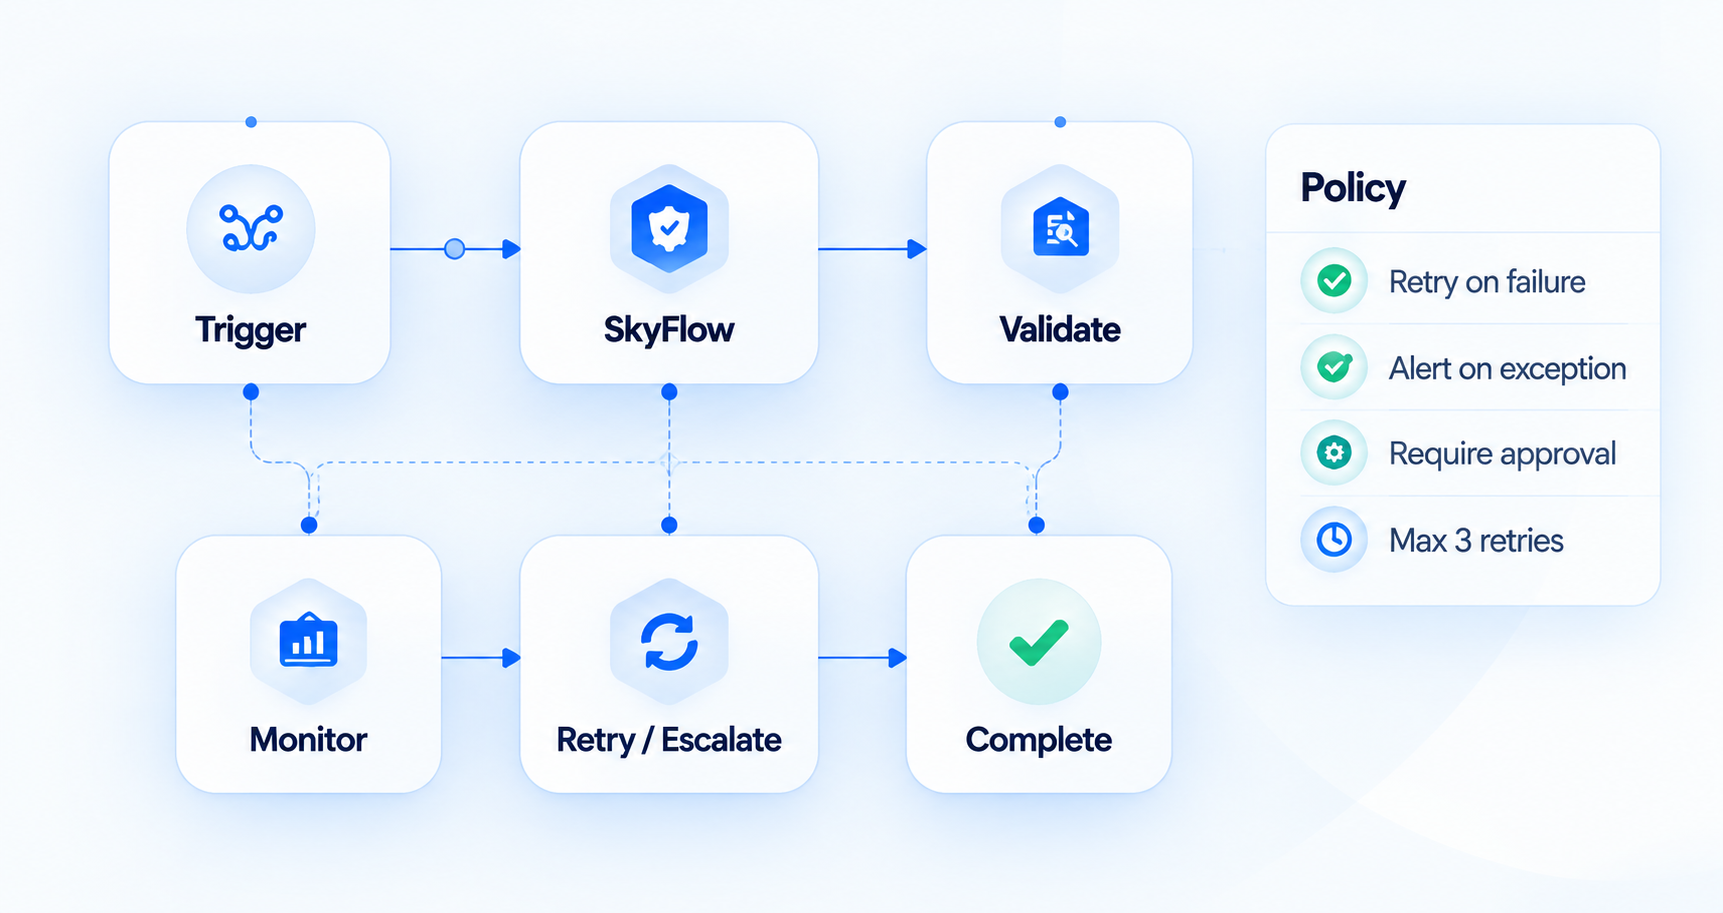
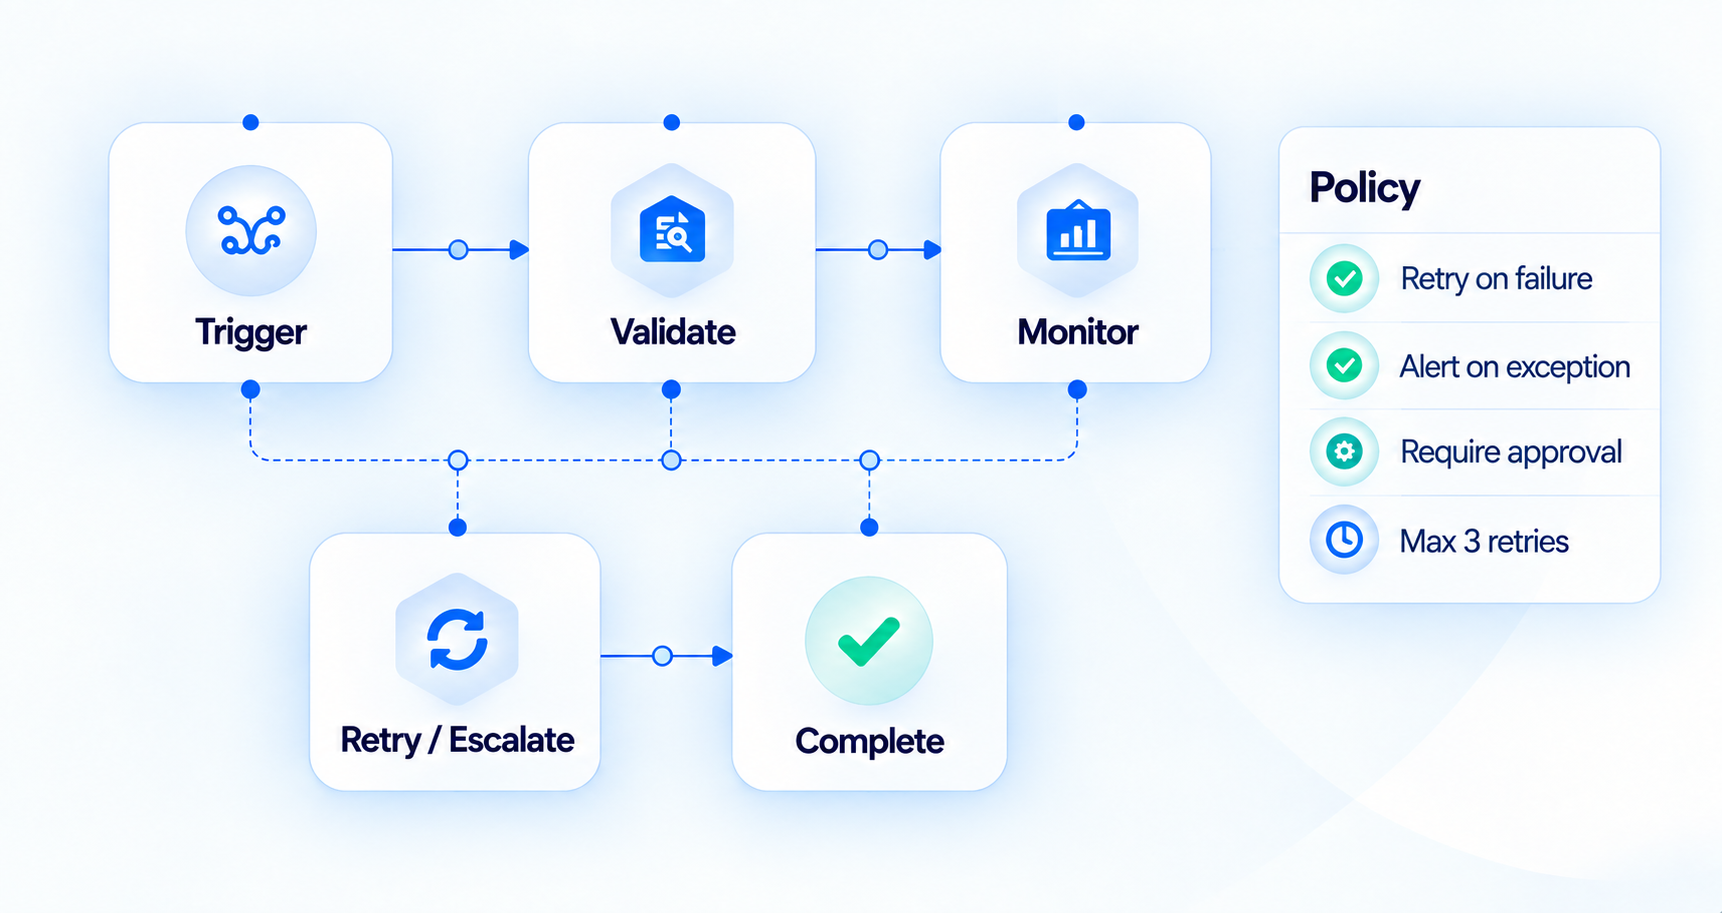
refactor: update service and resource capsule styles for improved layout

diff --git a/features.html b/features.html
@@ -326,9 +326,7 @@
       }
 
       .resource-capsule {
-        display: flex;
-        align-items: center;
-        justify-content: center;
+        display: block;
         width: fit-content;
         max-width: 100%;
         margin: 0 0 var(--space-6);
@@ -339,10 +337,6 @@
         line-height: 1.08;
         overflow-wrap: anywhere;
         text-align: left;
-      }
-
-      .resource-capsule svg {
-        display: none;
       }
 
       .resource-shell h2 {
@@ -623,9 +617,6 @@
         <div class="container">
           <div class="resource-shell">
             <div class="resource-capsule" aria-hidden="true">
-              <svg viewBox="0 0 16 16" fill="none">
-                <path d="M7.55 1.9c.12-.54.78-.54.9 0l.74 3.35c.06.29.27.5.56.56l3.35.74c.54.12.54.78 0 .9l-3.35.74c-.29.06-.5.27-.56.56l-.74 3.35c-.12.54-.78.54-.9 0l-.74-3.35a.78.78 0 0 0-.56-.56L2.9 7.45c-.54-.12-.54-.78 0-.9l3.35-.74a.78.78 0 0 0 .56-.56l.74-3.35Z" fill="currentColor"/>
-              </svg>
               <span>Documentation</span>
             </div>
             <h2 id="documentation-title">You built the agent. <br class="documentation-title-break"> Now document how it works.</h2>
@@ -658,9 +649,6 @@
         <div class="container">
           <div class="resource-shell">
             <div class="resource-capsule" aria-hidden="true">
-              <svg viewBox="0 0 16 16" fill="none">
-                <path d="M7.55 1.9c.12-.54.78-.54.9 0l.74 3.35c.06.29.27.5.56.56l3.35.74c.54.12.54.78 0 .9l-3.35.74c-.29.06-.5.27-.56.56l-.74 3.35c-.12.54-.78.54-.9 0l-.74-3.35a.78.78 0 0 0-.56-.56L2.9 7.45c-.54-.12-.54-.78 0-.9l3.35-.74a.78.78 0 0 0 .56-.56l.74-3.35Z" fill="currentColor"/>
-              </svg>
               <span>Versions</span>
             </div>
             <h2 id="versions-title">Agent changed? Every update becomes a new version.</h2>
@@ -702,9 +690,6 @@
         <div class="container">
           <div class="resource-shell">
             <div class="resource-capsule" aria-hidden="true">
-              <svg viewBox="0 0 16 16" fill="none">
-                <path d="M7.55 1.9c.12-.54.78-.54.9 0l.74 3.35c.06.29.27.5.56.56l3.35.74c.54.12.54.78 0 .9l-3.35.74c-.29.06-.5.27-.56.56l-.74 3.35c-.12.54-.78.54-.9 0l-.74-3.35a.78.78 0 0 0-.56-.56L2.9 7.45c-.54-.12-.54-.78 0-.9l3.35-.74a.78.78 0 0 0 .56-.56l.74-3.35Z" fill="currentColor"/>
-              </svg>
               <span>Operate</span>
             </div>
             <h2 id="operate-title">A complete record of what your agent does.</h2>

diff --git a/platform.html b/platform.html
@@ -303,41 +303,28 @@
     }
 
     .service-kicker {
-      display: inline-flex;
-      align-items: center;
-      justify-content: center;
-      gap: 9px;
-      min-height: 42px;
-      min-width: 155px;
+      display: block;
+      width: fit-content;
+      min-height: 0;
+      min-width: 0;
       max-width: 100%;
-      padding: 0 19px;
-      border: 1px solid var(--color-primary-blue);
-      border-radius: var(--radius-pill);
-      background: var(--services-bg);
+      padding: 0;
+      border: 0;
+      border-radius: 0;
+      background: transparent;
       color: var(--color-primary-blue);
-      font-size: 0.875rem;
+      font-family: var(--font-family-body);
+      font-size: 1.35rem;
       font-weight: 500;
       letter-spacing: 0;
-      line-height: 1;
+      line-height: 1.15;
       text-transform: none;
+      margin-bottom: 22px;
       white-space: nowrap;
     }
 
-    .service-kicker {
-      width: fit-content;
-      min-width: 0;
-      padding-inline: 16px;
-      margin-bottom: 22px;
-    }
-
     .service-kicker::before {
-      content: "";
-      width: 12px;
-      height: 12px;
-      flex: 0 0 12px;
-      display: block;
-      background: var(--color-primary-blue);
-      clip-path: polygon(50% 0, 61% 39%, 100% 50%, 61% 61%, 50% 100%, 39% 61%, 0 50%, 39% 39%);
+      display: none;
     }
 
     .service-heading {
